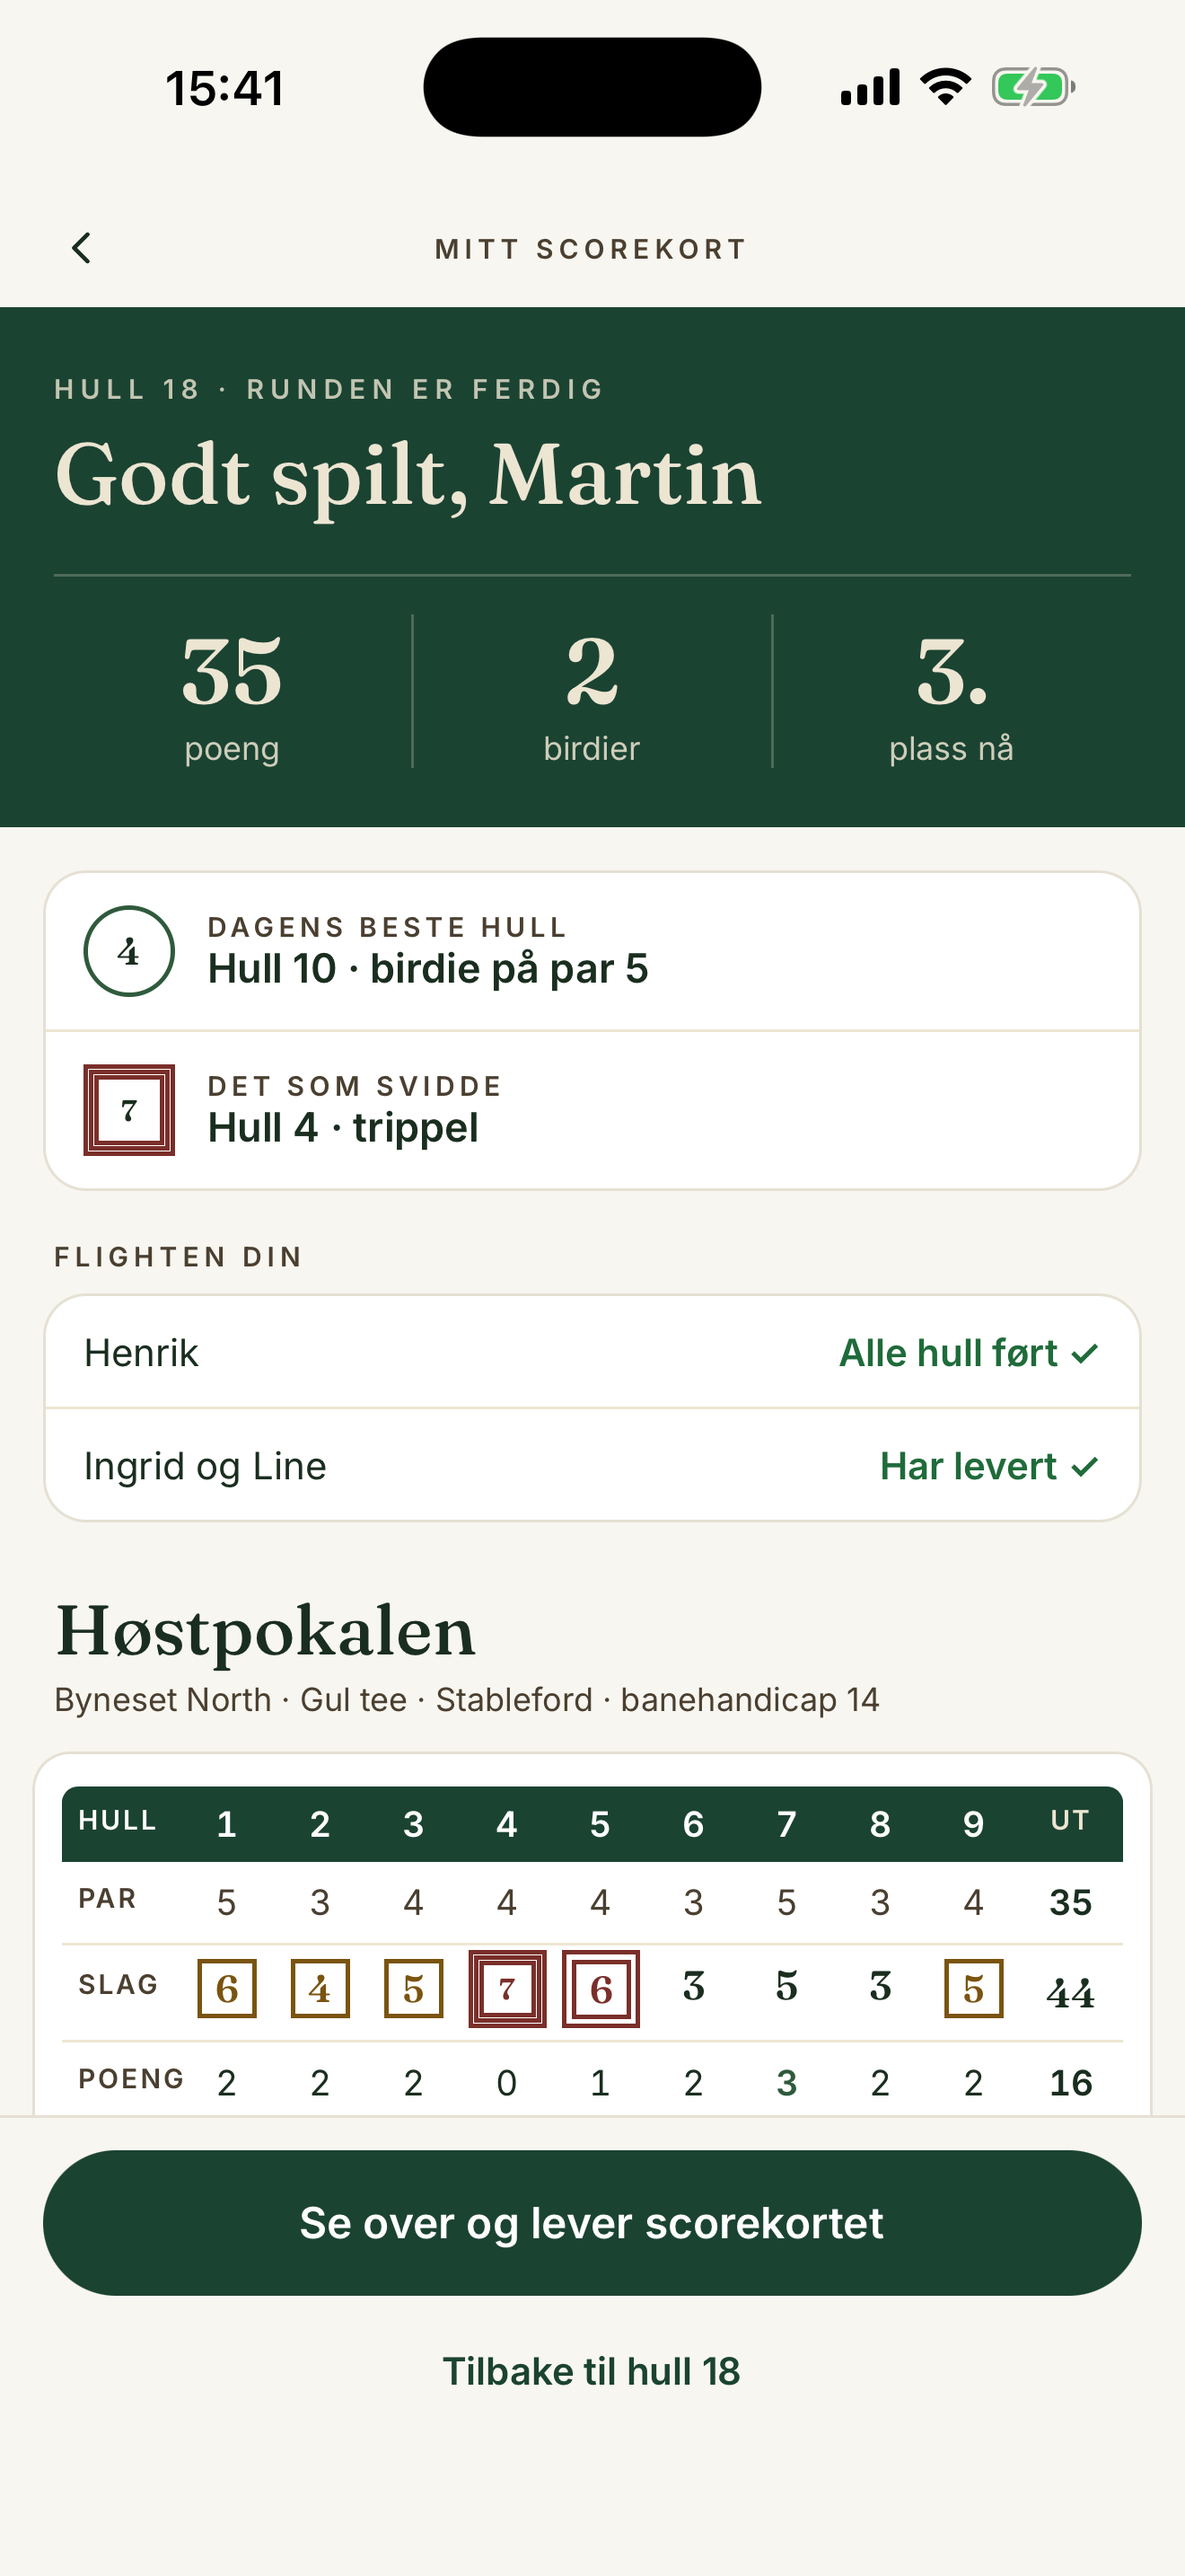
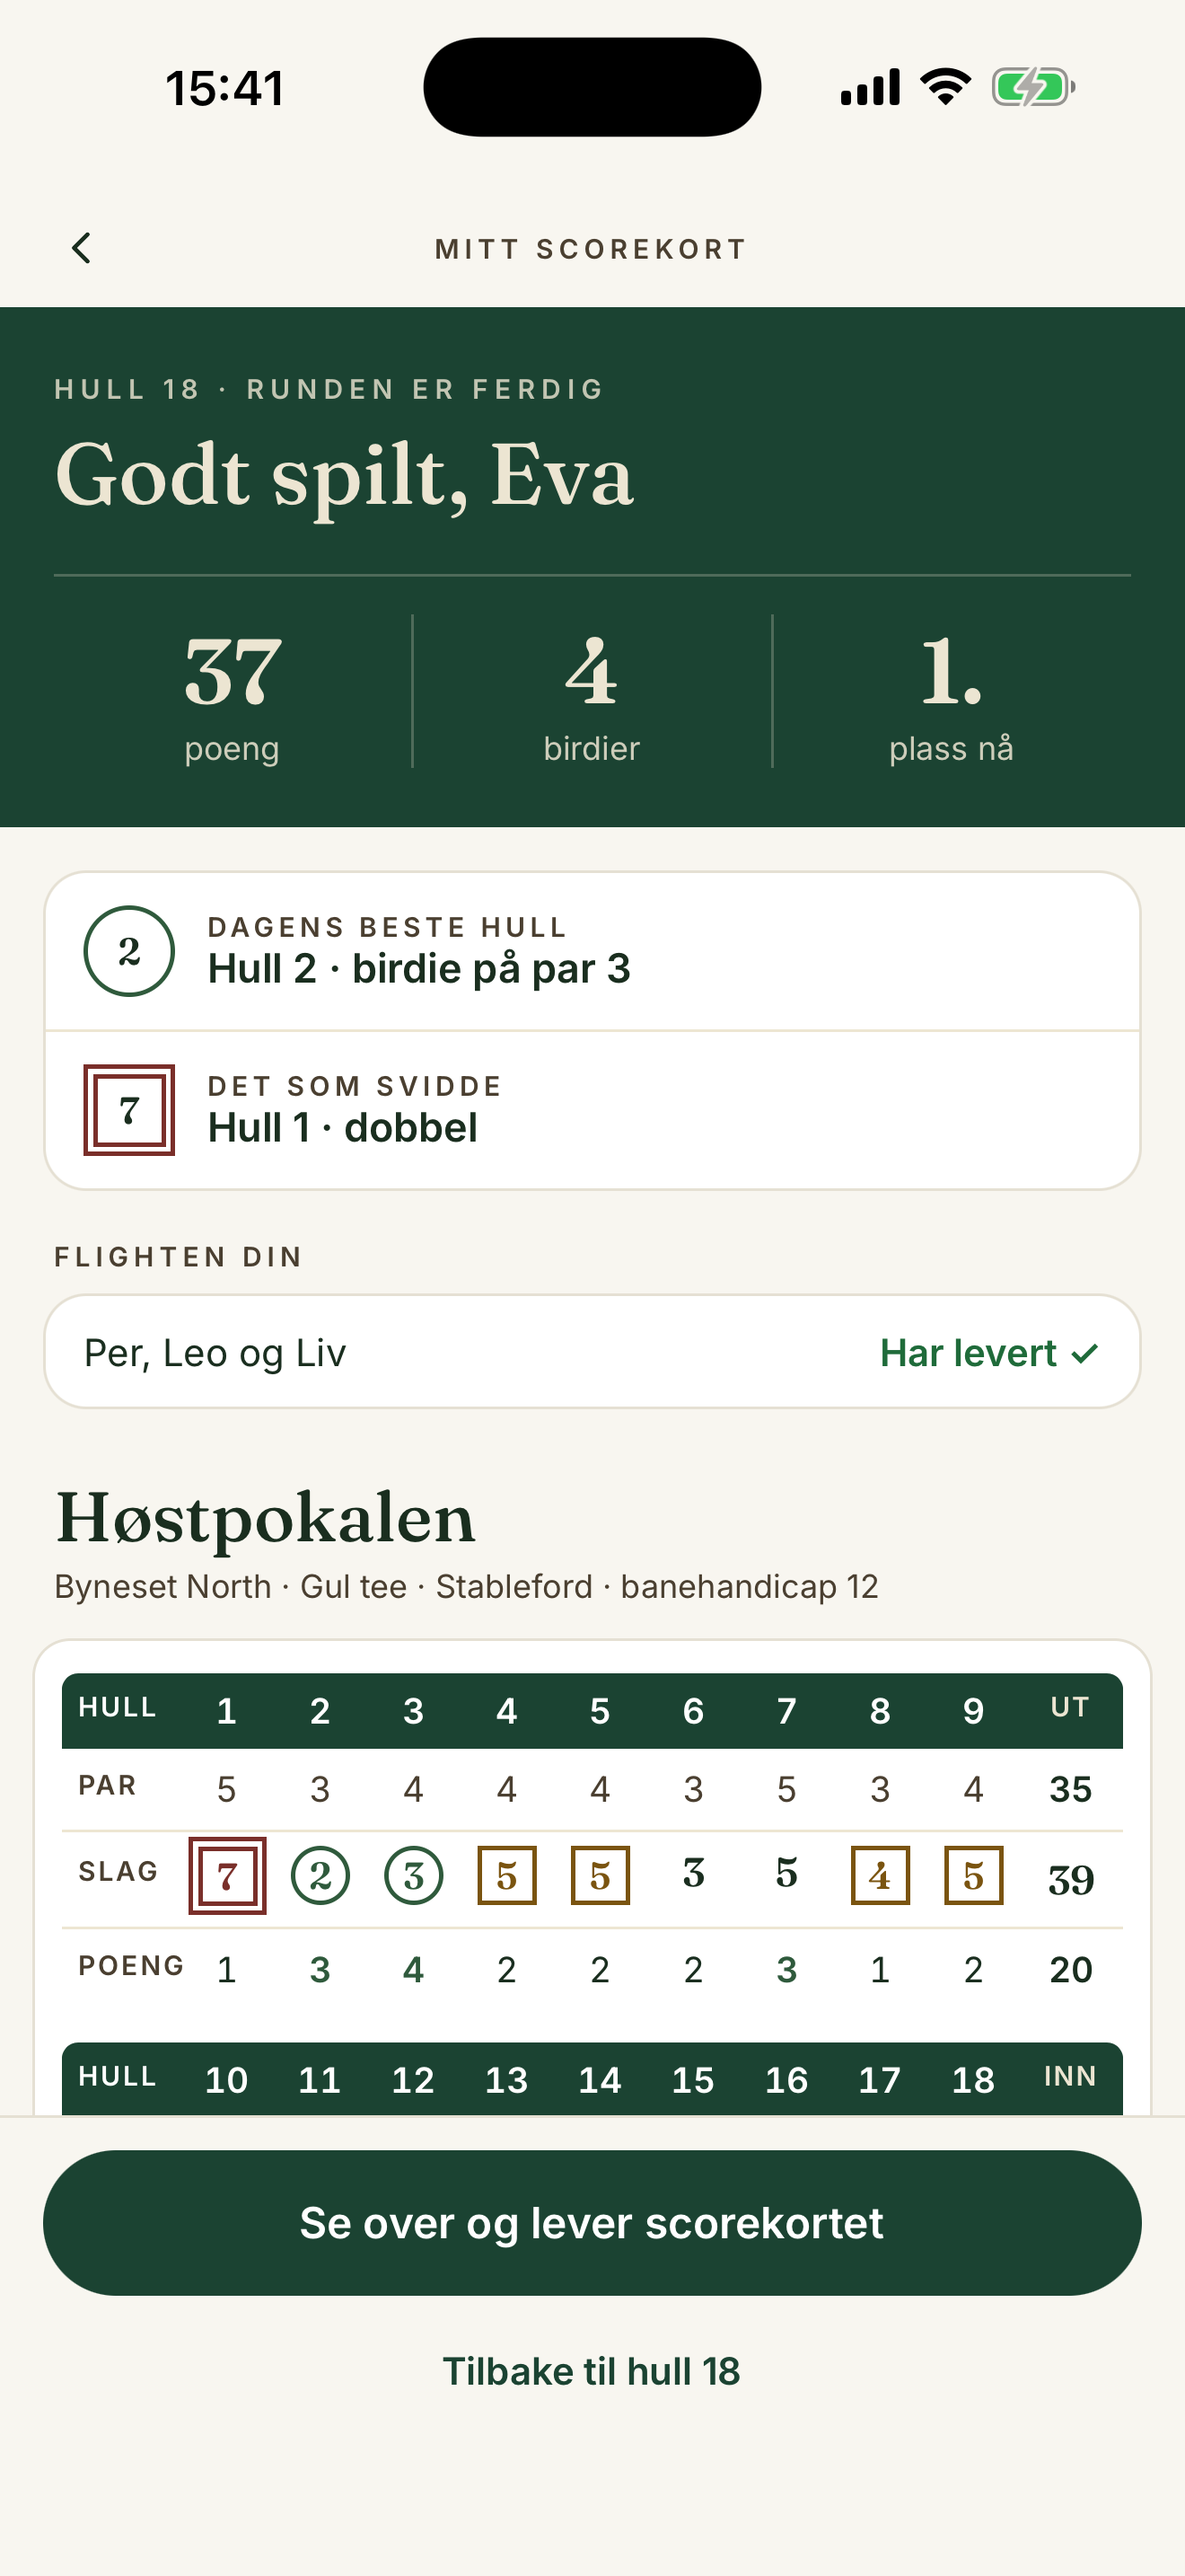
docs(native): retake the store screenshots filled, with no cut-off text
The owner looked at the first set and chose to retake it filled: five of
the eight left a large empty area at the bottom (the board and the
result showed five rows before "Vis alle", the hole and the approval had
space under them), and two lines were cut ("2 poeng ba...", "Lag 1 ·
Even, Kari, Marti...").

Every screen is still a real app state, seen by the player who has it:
the board and the result have the app's own "Vis alle 12 spillere"
pressed, the team board has six teams, the hole has two of four entered
so the keypad is open for the next player, and the approval has three
cards waiting. The fixture now has 18 invented players with short first
names, so team headers and the "Din runde" line fit at 1080 px. On
Android, the home screen has one active game less, so "Forrige runde"
fits on the shorter 9:16 screen. The store README describes the states
and the new alt texts.

Refs #2561

diff --git a/native/assets/store/README.md b/native/assets/store/README.md
@@ -17,14 +17,14 @@ Bildene lastes opp i rekkefølgen filnavnene har:
 
 | Nr. | Skjerm | Alt-tekst (Play, maks 140 tegn) |
 |---|---|---|
-| 01 | Hjem | Hjem-siden med runden som pågår, flere runder i gang og neste start |
-| 02 | Hullet | Hull 7 med slagene og poengene til hele flighten |
-| 03 | Tavla | Tavla mens turneringen pågår, med tolv spillere i tre flighter |
+| 01 | Hjem | Hjem-siden med runden som pågår, neste start og forrige runde |
+| 02 | Hullet | Hull 12 med slagene til flighten og tastaturet for neste spiller |
+| 03 | Tavla | Tavla mens turneringen pågår, med alle tolv spillerne |
 | 04 | Utslaget | Texas scramble: laget taster scoren og velger hvem sitt utslag de brukte |
 | 05 | Runden er ferdig | Runden er ferdig: poeng, birdier, plassering og dagens beste hull |
-| 06 | Godkjenning | Godkjenn kortet til en makker i flighten, eller send det tilbake |
-| 07 | Resultat | Sluttresultatet med vinneren øverst på tavla |
-| 08 | Lagtavla | Lagtavla etter en lagkonkurranse, med vinnerlaget øverst |
+| 06 | Godkjenning | Tre kort venter: godkjenn kortet til en makker, eller send det tilbake |
+| 07 | Resultat | Sluttresultatet med alle tolv spillerne og vinneren øverst |
+| 08 | Lagtavla | Lagtavla med seks lag og vinnerlaget øverst |
 | Feature-grafikk | Ordmerket og slagordet | Tørny. Fyr opp golfturneringen på et par minutter |
 
 ## Slik ble de laget
@@ -34,11 +34,17 @@ Bildene lastes opp i rekkefølgen filnavnene har:
   Android-emulatoren `torny_api36` (Pixel 7-profil, API 36) med skjermen satt til 1080 × 1920.
 - **Dataene:** en midlertidig probe byttet bare `native/app/src/supabase.ts` mot en lokal fikstur.
   Alt annet i appen var ekte: hjem-lista, spillhentingen, den lokale basen, poengutregningen og
-  tavlene. Spillerne er tolv oppdiktede personer med genererte id-er. Banen (Byneset North: hull,
-  par, indeks og slope for herrer) er lest fra staging. Tee-navnet «Gul» og slope og CR for damer er
-  satt i fiksturen.
+  tavlene. Spillerne er 18 oppdiktede personer med korte fornavn og genererte id-er, så navn i
+  smale felt («Lag 1 · Ari, Bo, Una») får plass. Banen (Byneset North: hull, par, indeks og slope
+  for herrer) er lest fra staging. Tee-navnet «Gul» og slope og CR for damer er satt i fiksturen.
   Ingenting ble skrevet til staging eller prod, og ingen e-postadresse vises. Proben og fiksturen
   er ikke committet.
+- **Tilstandene:** hver skjerm er en ekte apptilstand, sett av den spilleren som har den. Tor er
+  midt i runden (Hjem, hullet, tavla, resultatet og lagtavla). Eva er ferdig og har tre kort å
+  godkjenne (runden er ferdig, godkjenning). Ari spiller Texas scramble (utslaget). På tavla og
+  resultatet trykket proben appens egen «Vis alle 12 spillere». På Android har fiksturen ett
+  pågående spill mindre, så Hjem viser ikke «Flere runder i gang», og «Forrige runde» får plass
+  på den lavere 9:16-skjermen.
 - **Statuslinja:** klokka står på 15:41, i tråd med «God dag» på Hjem. iOS brukte
   `simctl status_bar`, og Android brukte demomodus uten varselikoner.
 - **Etterbehandling:** alle bildene er flatet til RGB uten alfakanal. 6,3"-settet er det samme
